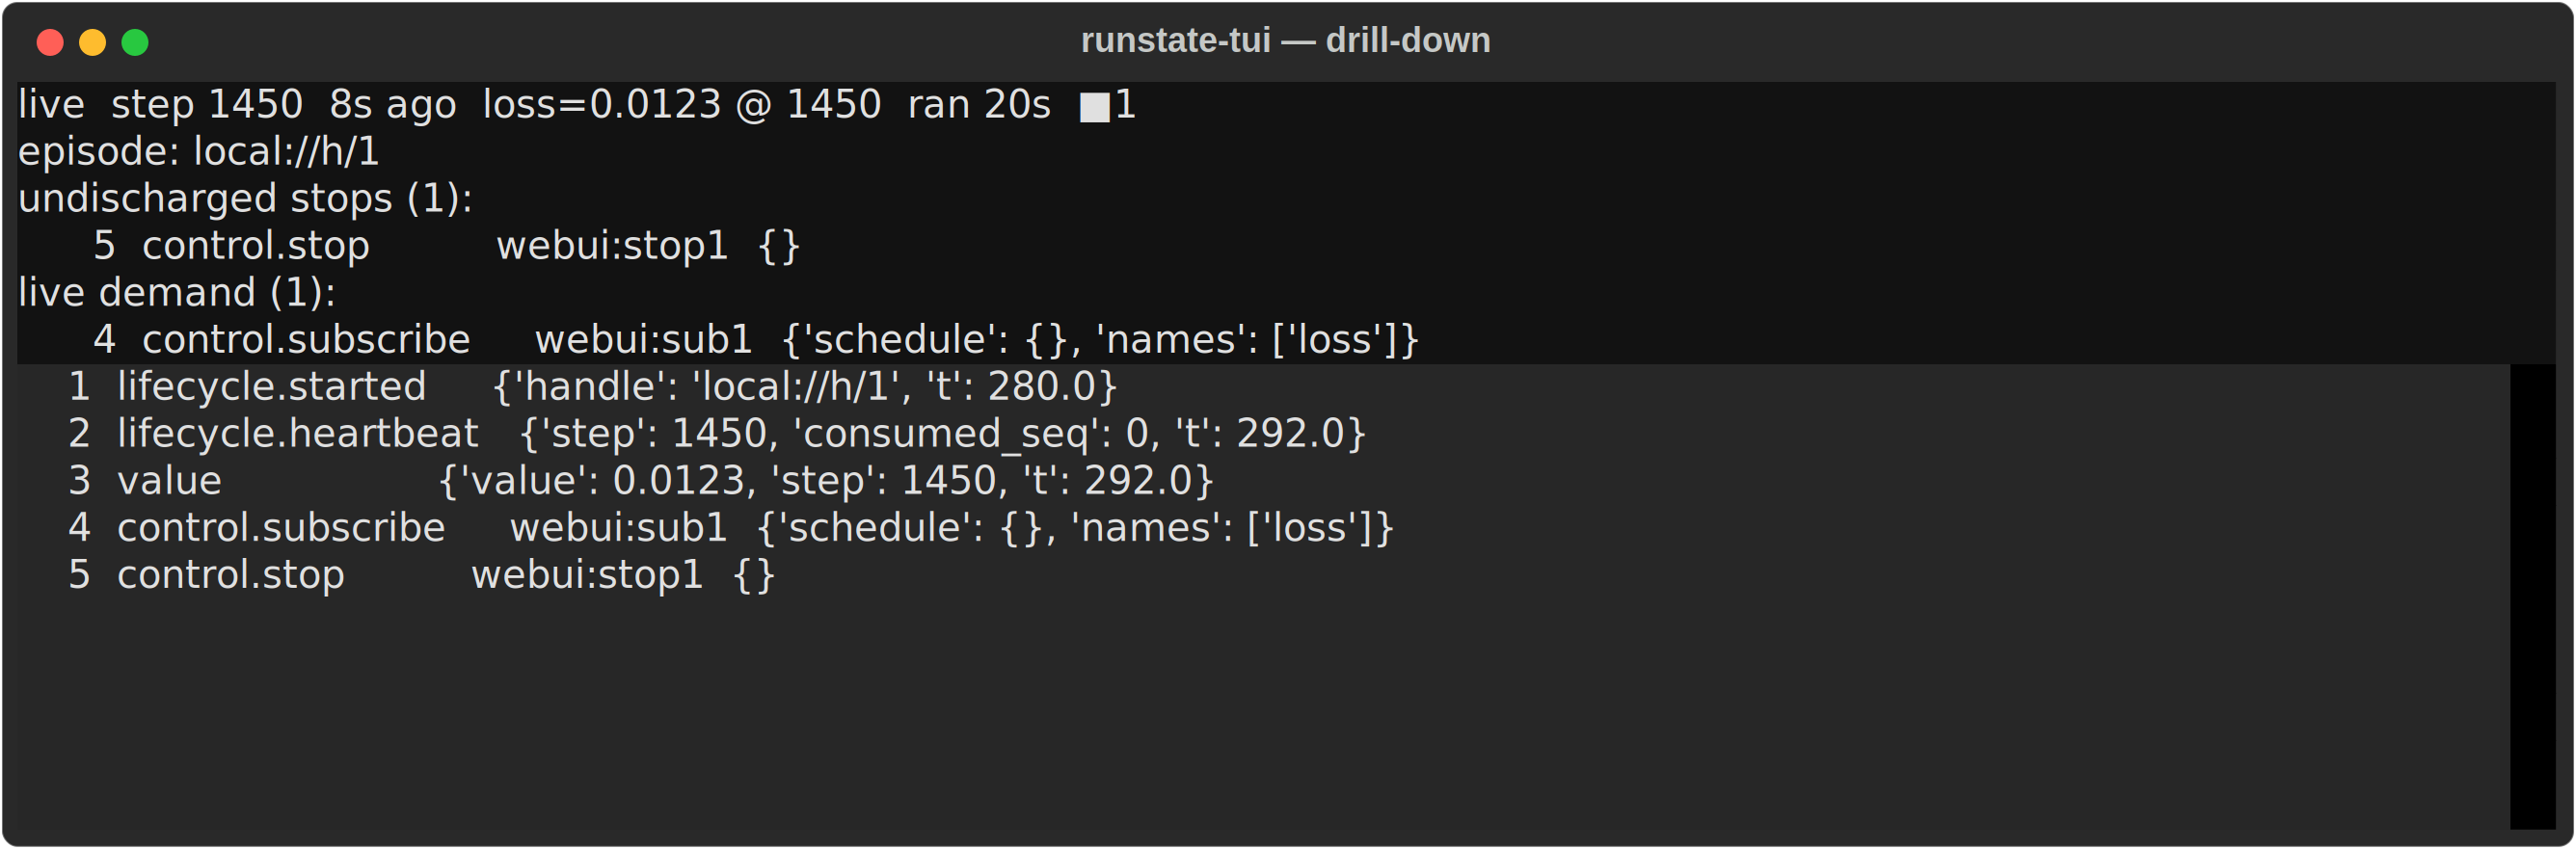
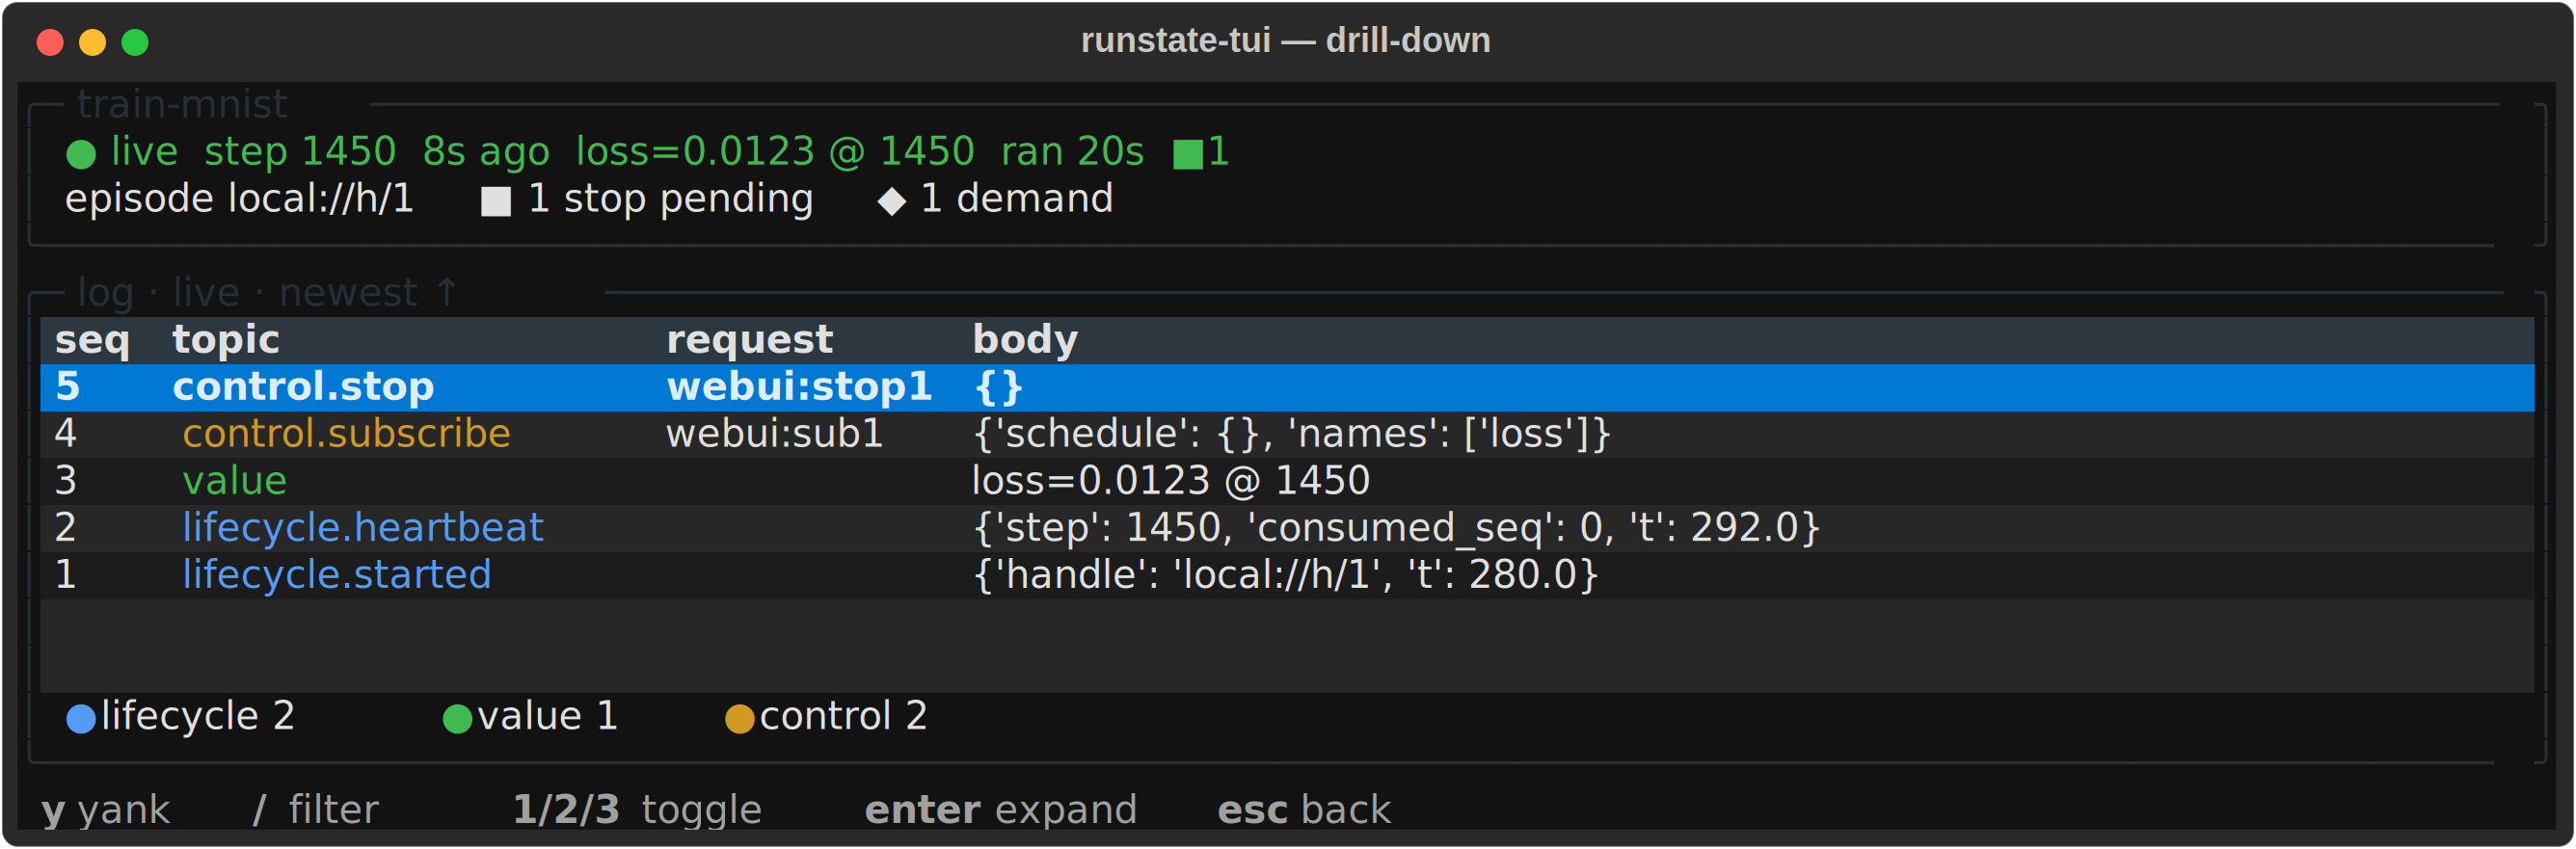
feat(showcase): regenerate drill-down scene for the redesign
Regenerates docs/img/drilldown.png/.svg via scripts/showcase.py against the
new two-region DrillDownScreen (summary card + newest-first colored/zebra log
table + topic chips + footer): scene_drilldown's existing size=(108, 16)
already fits the taller layout cleanly with no clipping and only one row of
padding (verified against h=14/h=18 alternatives -- 16 is the best-balanced
fit), so no size change was needed.

Adds tests/__snapshots__/test_detail/test_drilldown_snapshot.svg, a new
snap_compare layout test for DrillDownScreen (Task 3 removed the prior
flat-text golden; this replaces it, following the convention established in
tests/scenarios/test_table_plane.py). Also gitignores the pytest-textual-
snapshot plugin's regenerated snapshot_report.html artifact.

MultiRunApp/SingleRunApp's DrillDownScreen(ref, env, tick_interval)
construction is unchanged; tests/test_multirun.py, tests/test_detail.py, and
tests/scenarios/test_log_plane.py are all green, confirming the app
integration is unbroken.

Claude-Session: https://claude.ai/code/session_01EZVuQQF3vdynEXvyDApYKp

diff --git a/tests/test_detail.py b/tests/test_detail.py
@@ -469,3 +469,25 @@ async def _escape_pops_unfocused(tmp_path):
         await pilot.pause()
 
         assert not isinstance(app.screen, DrillDownScreen)  # popped, unchanged behavior
+
+
+def test_drilldown_snapshot(snap_compare, tmp_path):
+    """Layout snapshot for the redesigned DrillDownScreen (task-7-brief.md): the
+    two-region shell (compact card + newest-first colored/zebra log table + chips +
+    footer) over `_seed_rich`, following the `snap_compare` convention established in
+    `tests/scenarios/test_table_plane.py` -- the prior flat-text drilldown snapshot was
+    removed by the redesign (task-3); this is its replacement, sized like this file's
+    other DrillDownScreen tests (90, 22)."""
+    ref = _seed_rich(tmp_path)
+    app = _HostApp(ref)
+
+    async def _settle(pilot):
+        for _ in range(60):
+            await pilot.pause(0.02)
+            screen = pilot.app.screen
+            if isinstance(screen, DrillDownScreen):
+                t = screen.query_one("#detail-log", DataTable)
+                if t.row_count == 5:
+                    break
+
+    assert snap_compare(app, run_before=_settle, terminal_size=(90, 22))